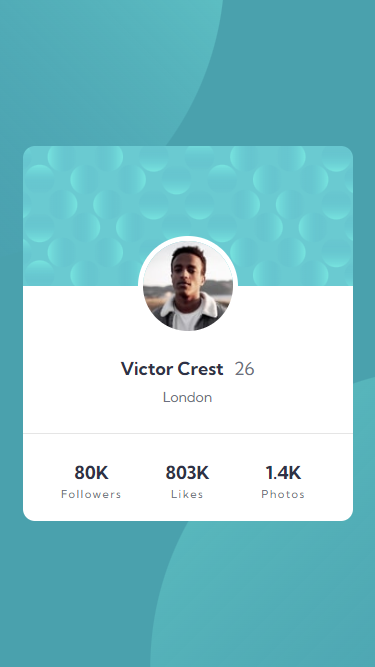
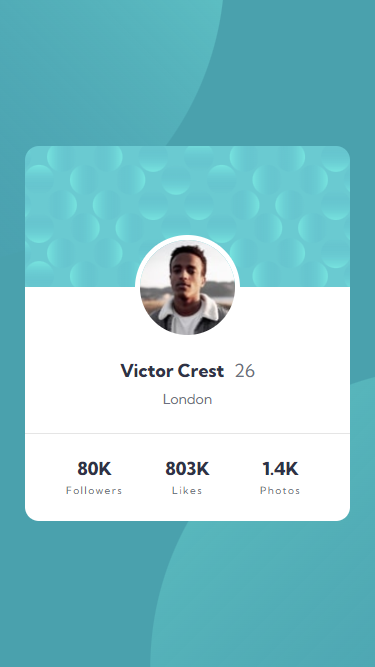
Nitpicky changes and new screenshots

diff --git a/newbie/profile-card-component-main/src/App.tsx b/newbie/profile-card-component-main/src/App.tsx
@@ -33,31 +33,33 @@ function App() {
         <>
             <Center minHeight='100vh'>
                 <Card
+                    borderRadius='14px'
                     size='lg'
                     variant='filled'
                     minHeight='375px'
                     maxHeight='375px'
-                    minWidth={{base: '330px', lg: '350px'}}
-                    maxWidth={{base: '330px', lg: '350px'}}
+                    minWidth={{base: '325px', lg: '350px'}}
+                    maxWidth={{base: '325px', lg: '350px'}}
                     padding={0}
                     margin={0}
-                    bg={'url("./bg-pattern-card.svg") top center / 350px 140px no-repeat #FFFFFF'}
+                    bg={'url("./bg-pattern-card.svg") top center / 350px 141px border-box no-repeat #FFFFFF'}
                     alignItems='center'
                     color={colorDarkGrayBlue}
+                    boxSizing='border-box'
                 >
-                    <Image src='./image-victor.jpg' alt='Victor Crest profile photo' marginTop='90px' boxSize='100px'
-                           borderWidth='5px' borderColor='white' borderStyle='solid' rounded='full' alignSelf='center'/>
-                    <Text as='h1' fontSize='18px' lineHeight='taller' marginTop='15px' fontWeight='regular'><Text
-                        as='span' fontWeight='bold' color={colorDarkBlue} marginEnd='10px'>Victor Crest</Text>26</Text>
-                    <Text fontSize='14px' marginBottom='25px'>London</Text>
-                    <Divider color={colorDarkGray} opacity={'0.25'} marginBottom='25px'/>
+                    <Image src='./image-victor.jpg' alt='Victor Crest profile photo' marginTop='89px' boxSize='105px'
+                           borderWidth='5px' borderColor='white' borderStyle='solid' rounded='full' alignSelf='center' boxSizing='border-box'/>
+                    <Text as='h1' fontSize='18px' lineHeight='none' marginTop='22px' marginBottom='12px' fontWeight='regular'><Text
+                        as='span' fontWeight='extrabold' color={colorDarkBlue} marginEnd='10px'>Victor Crest</Text>26</Text>
+                    <Text fontSize='14px' lineHeight='none' marginBottom='27px'>London</Text>
+                    <Divider color={colorDarkGray} opacity={'0.25'} marginBottom='26px'/>
                     <Stack direction='row' textAlign='center'
-                           minWidth='100%' marginBottom='25px' paddingX='25px'>
+                           minWidth='100%' marginBottom='25px' paddingX='27px'>
                         {stats.map((stat) => (
                             <Stat>
-                                <StatNumber fontSize='18px' fontWeight='bold'
-                                            color={colorDarkBlue}>{stat.number}</StatNumber>
-                                <StatLabel fontSize='11px' fontWeight='regular' color={colorDarkGrayBlue}
+                                <StatNumber fontSize='18px' lineHeight='none' fontWeight='extrabold'
+                                            color={colorDarkBlue} marginBottom='5px'>{stat.number}</StatNumber>
+                                <StatLabel fontSize='10px' fontWeight='regular' color={colorDarkGrayBlue}
                                            letterSpacing='1.5px'>{stat.label}</StatLabel>
                             </Stat>
                         ))}
